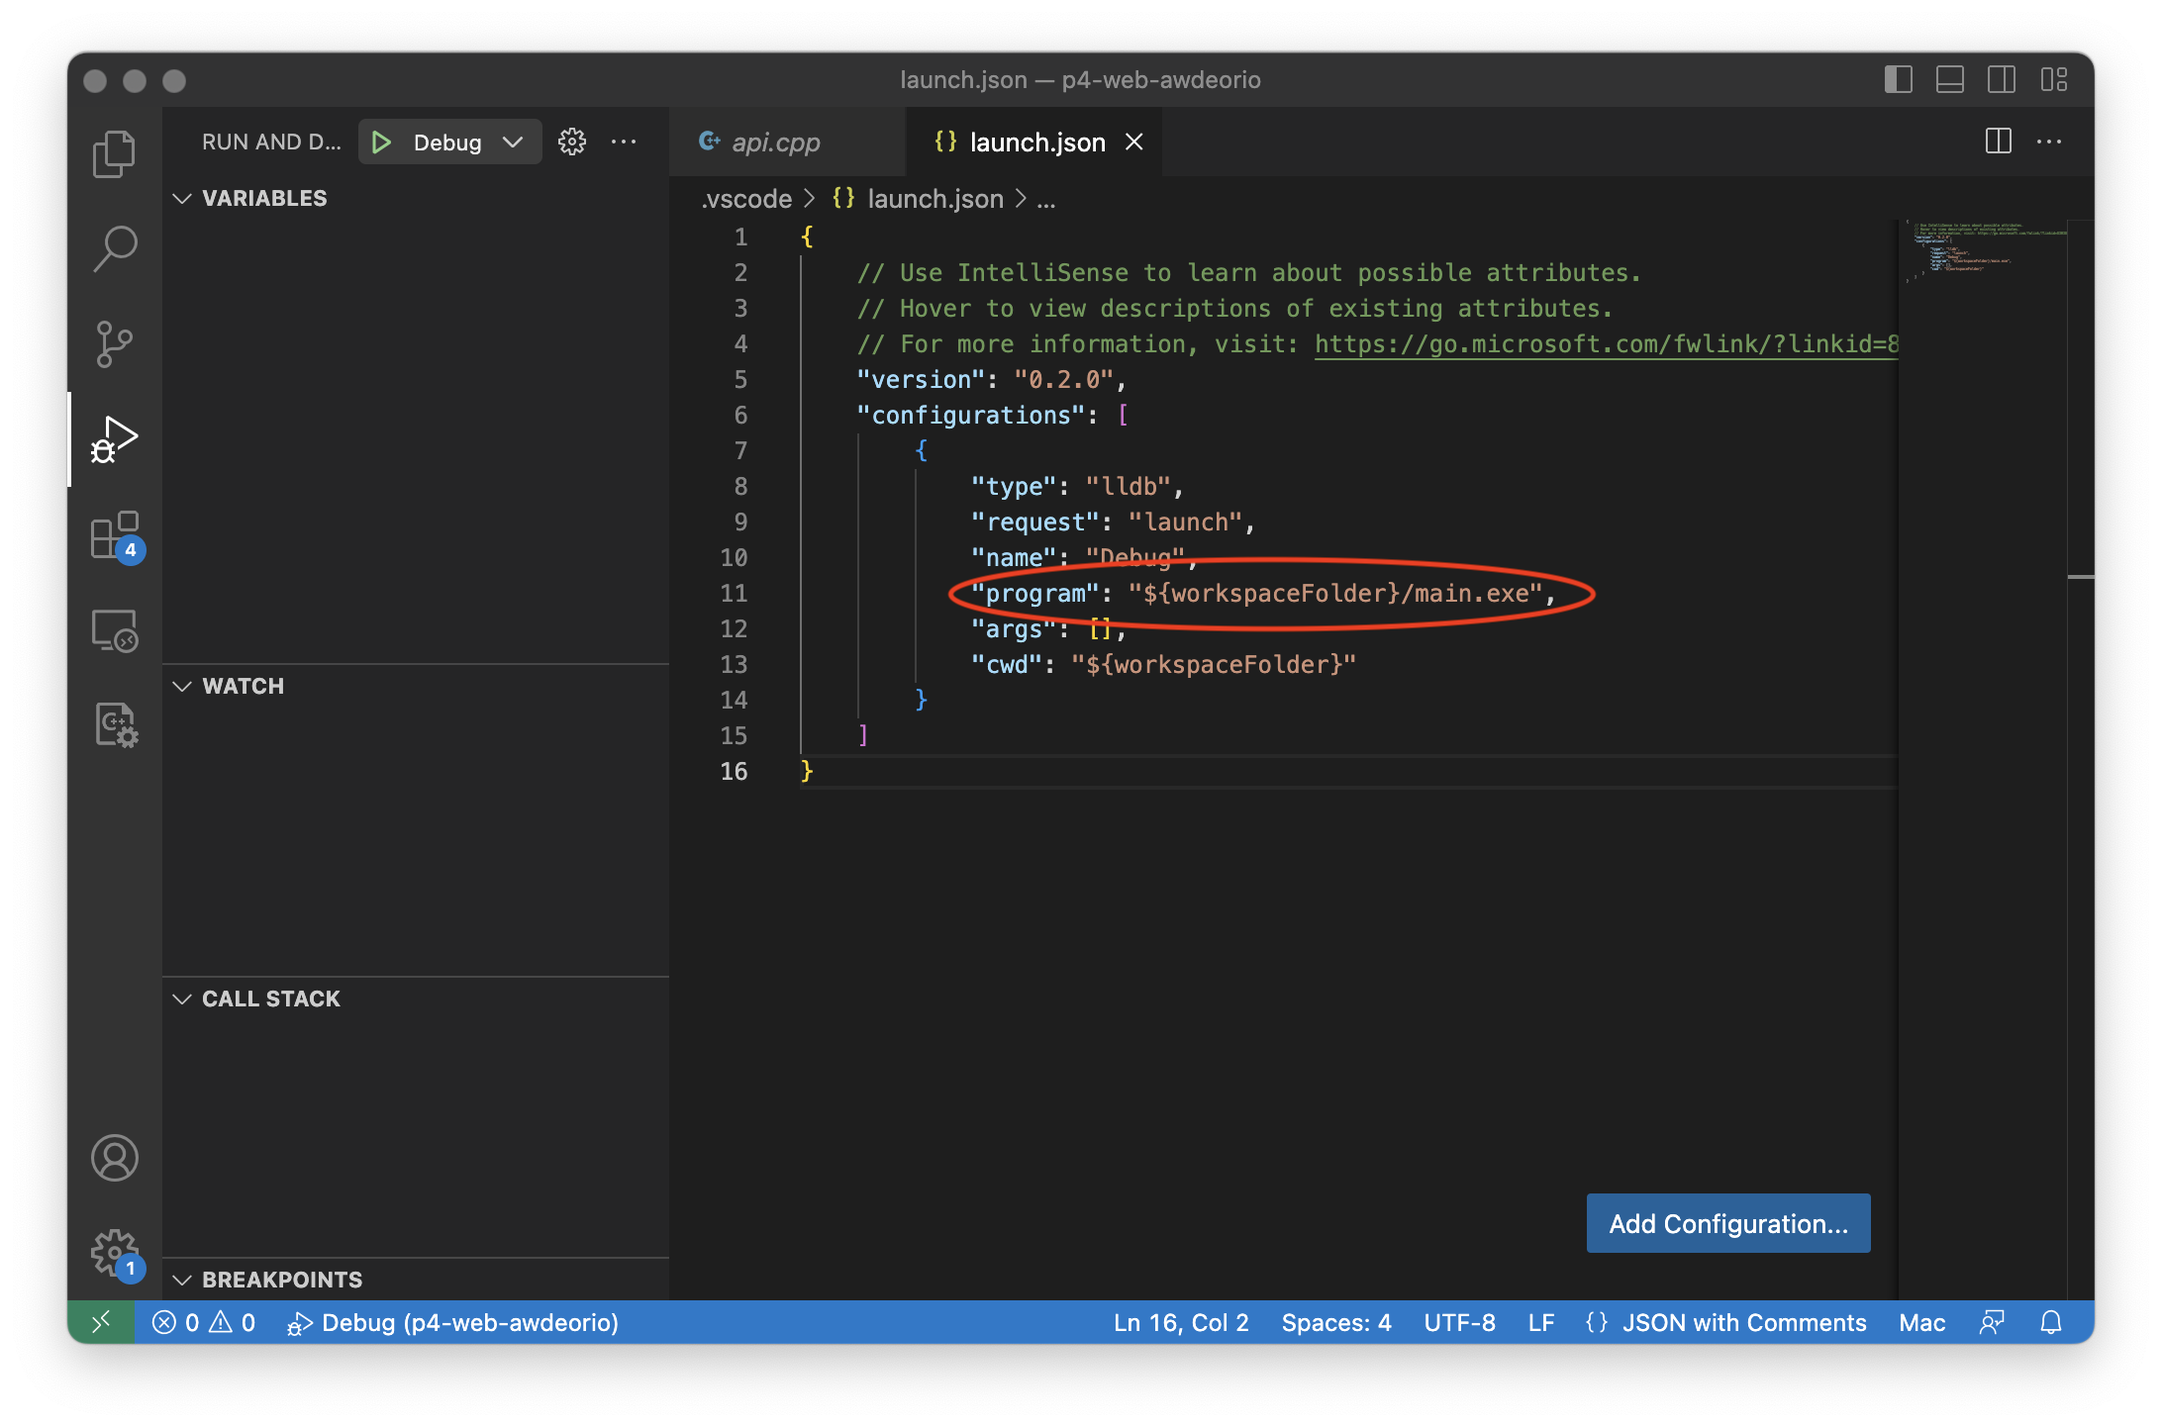
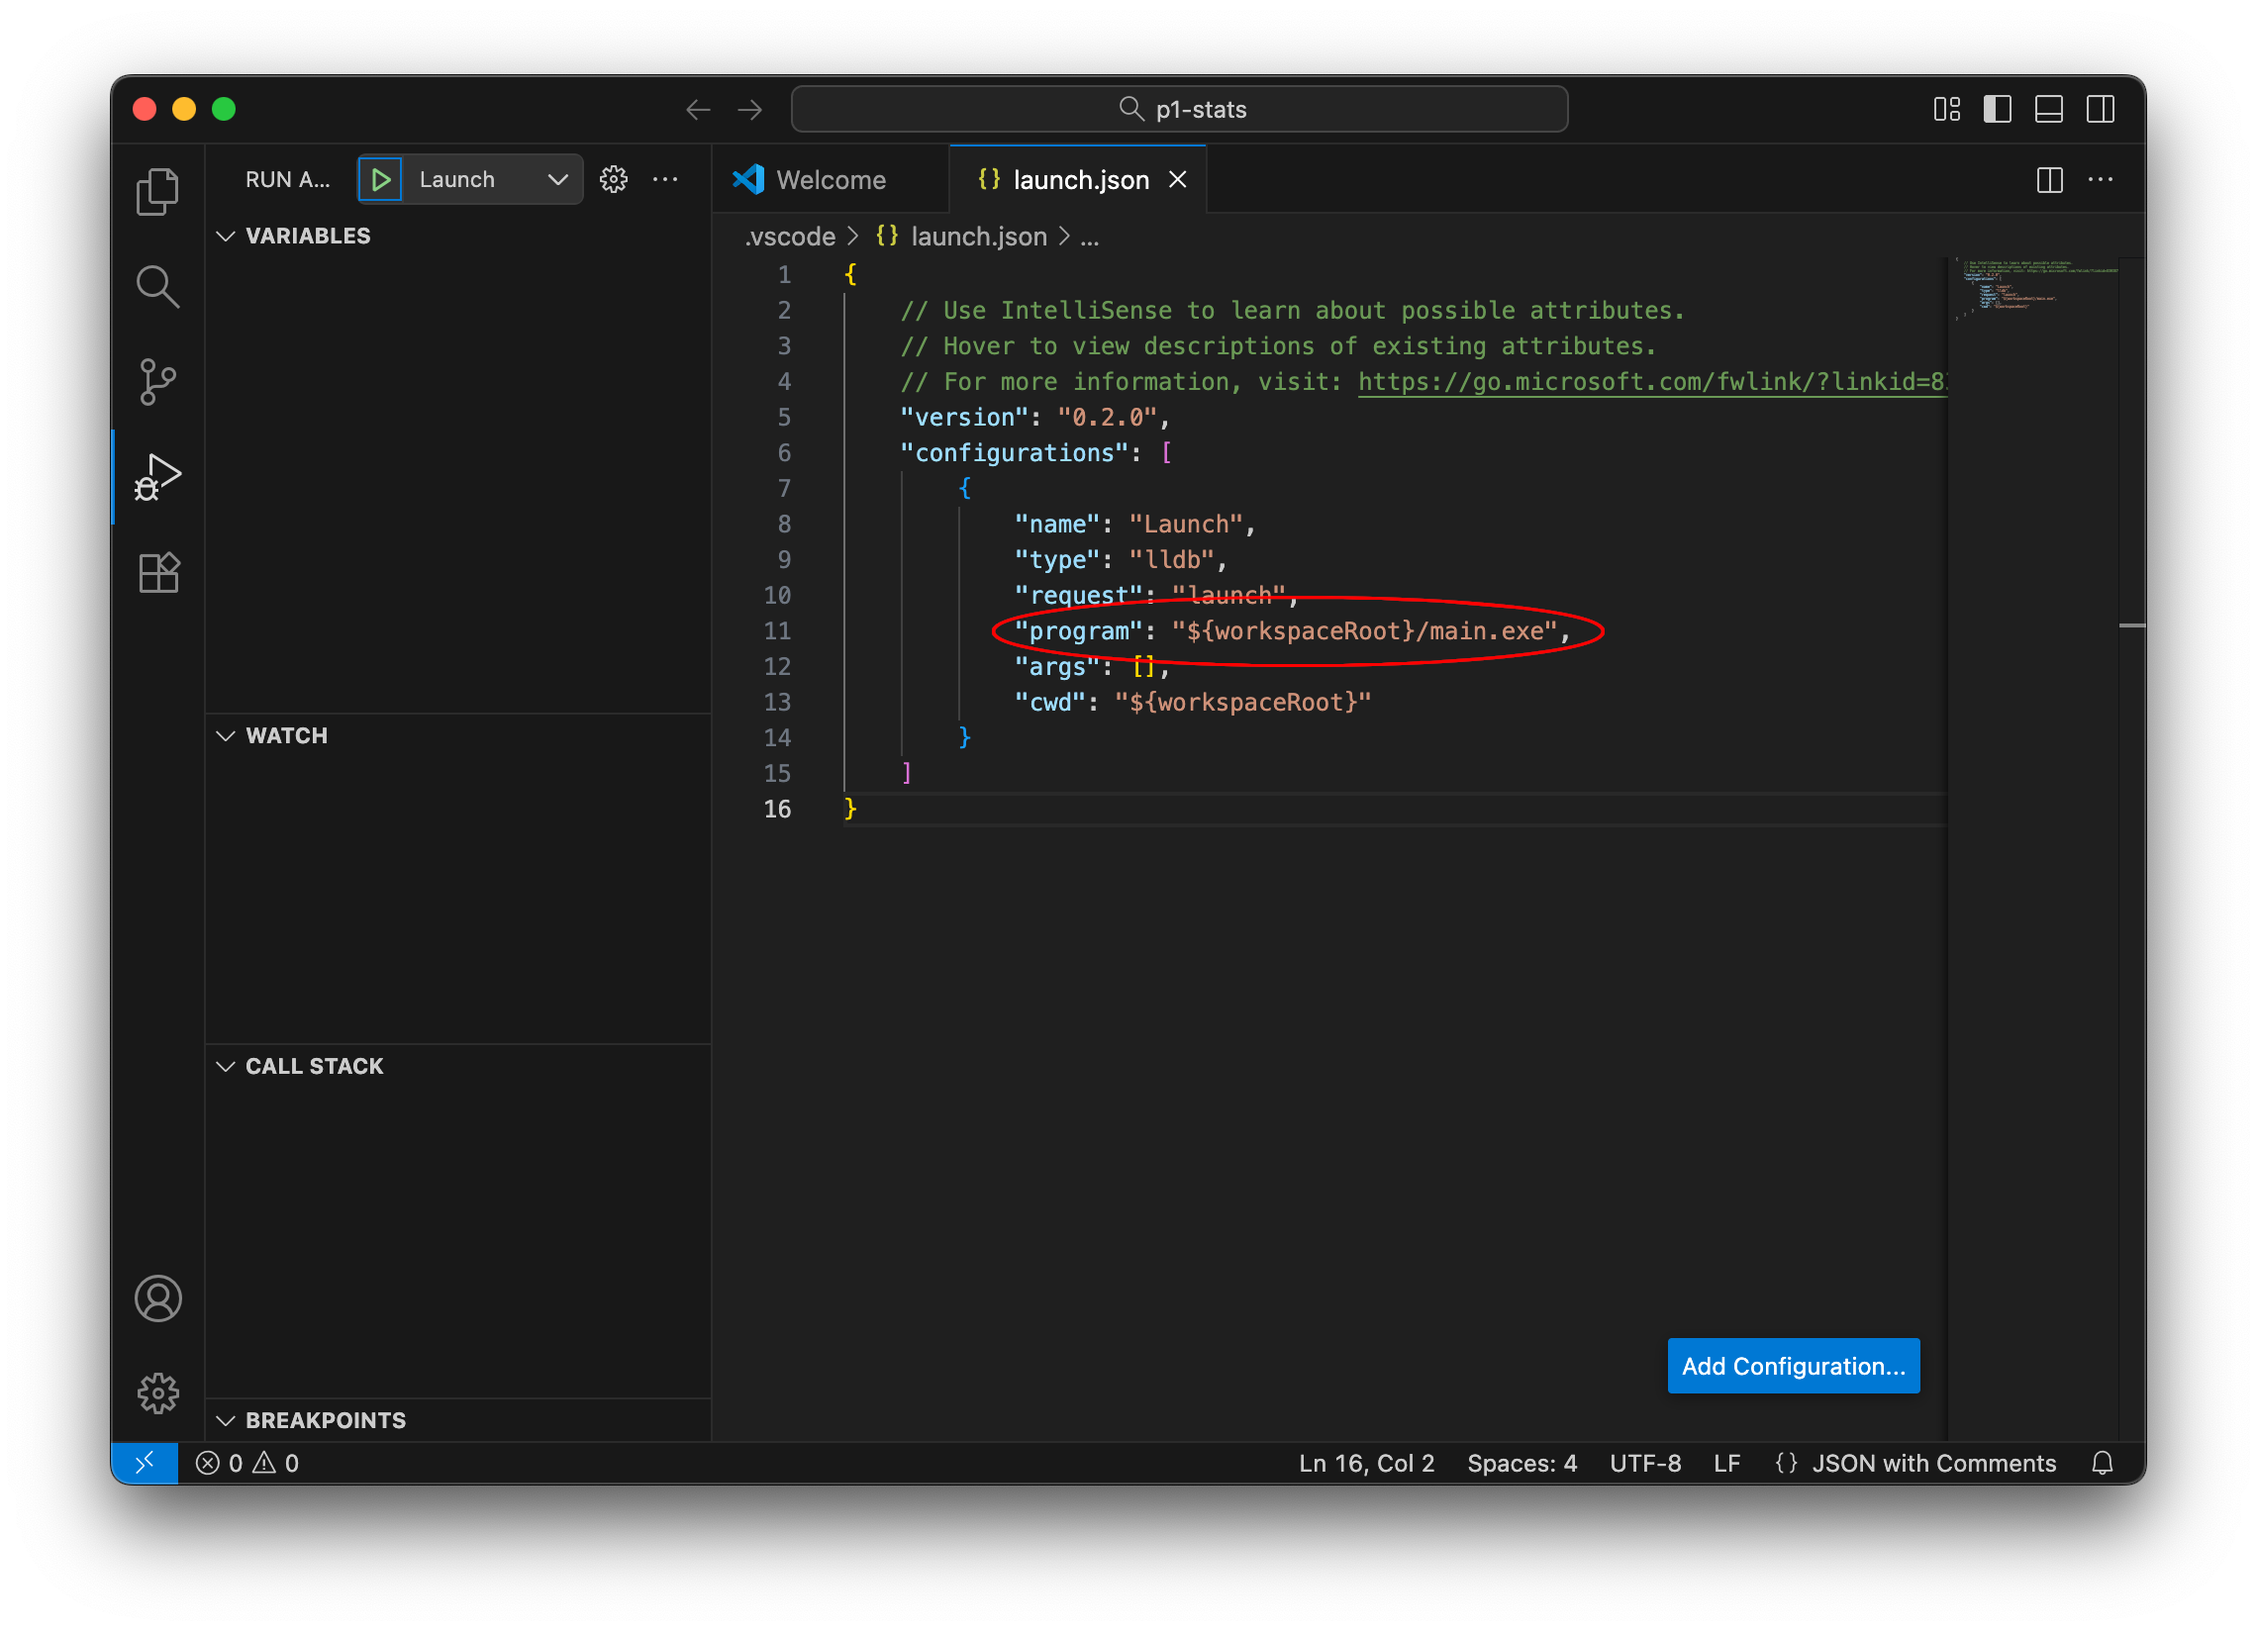
fix: change workspaceFolder to workspaceRoot to reflect changes in CodeLLDB extension

diff --git a/docs/setup_vscode_macos.md b/docs/setup_vscode_macos.md
@@ -349,12 +349,12 @@ Depending on your program, its inputs, and how you want to debug it, you'll need
 
 #### Edit `launch.json` program
 
-If you already have a working `launch.json` and want to debug a different program, edit the `program` field `launch.json`.  Your `program` name might be different.  Make sure `cwd` is set to `"${workspaceFolder}"`.
+If you already have a working `launch.json` and want to debug a different program, edit the `program` field `launch.json`.  Your `program` name might be different.  Make sure `cwd` is set to `"${workspaceRoot}"`.
 ```json
 {
-    "program": "${workspaceFolder}/main.exe",
+    "program": "${workspaceRoot}/main.exe",
     ...
-    "cwd": "${workspaceFolder}",
+    "cwd": "${workspaceRoot}",
 }
 ```
 {: data-highlight="2,4" }
@@ -399,7 +399,7 @@ To run a program with options or arguments in VS Code, edit `launch.json`.  Each
     "configurations": [
         {
             ...
-            "program": "${workspaceFolder}/main.exe",
+            "program": "${workspaceRoot}/main.exe",
             "args": ["HCMST_ver_3.04.tsv", "q24_met_online", "1", "0", "ppage"],
             ...
         }
@@ -421,7 +421,7 @@ To configure input redirection, edit `launch.json` ([docs](https://github.com/va
     "configurations": [
         {
             ...
-            "program": "${workspaceFolder}/main.exe",
+            "program": "${workspaceRoot}/main.exe",
             "stdio": ["main_test.in", null, null],
             ...
         }
